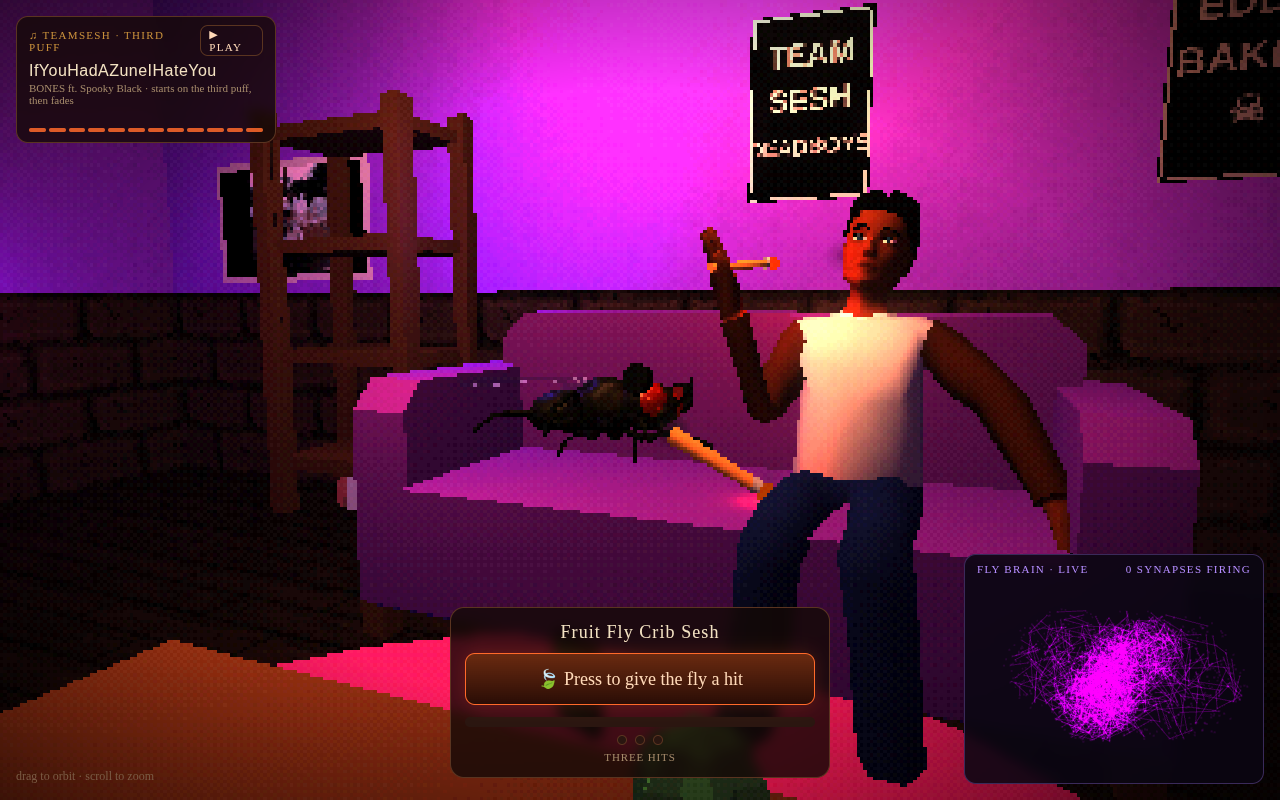
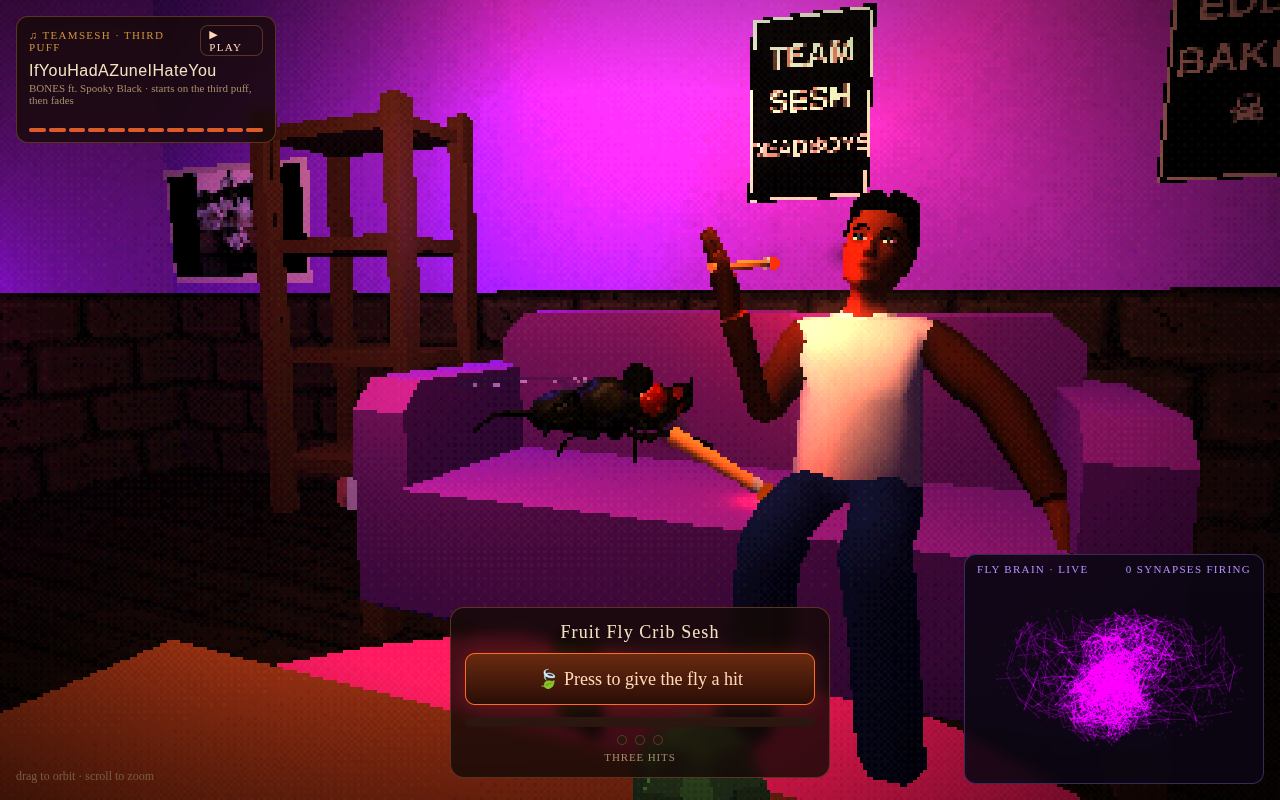
Album still clear of the bookshelf

Changed region(s): [[0.7812, 0.75, 0.9688, 0.9375], [0.125, 0.1875, 0.3125, 0.375], [0.6562, 0.2812, 0.6875, 0.375]]

diff --git a/index.html b/index.html
@@ -305,7 +305,7 @@ function hangPosters(){
   // the album still on the back wall, facing the camera
   new THREE.TextureLoader().load('assets/poster_yt.png', (t) => {
     const yp = new THREE.Mesh(new THREE.PlaneGeometry(2.6, 1.46), psxify(new THREE.MeshLambertMaterial({ map: pixelTex(t) })));
-    yp.position.set(-2.15*ROOM_S, 1.22*ROOM_S, -2.5*ROOM_S + .1); scene.add(yp);   // back wall, left of the bookshelf
+    yp.position.set(-2.5*ROOM_S, 1.22*ROOM_S, -2.5*ROOM_S + .1); scene.add(yp);   // back wall, left of the bookshelf
     const frame = new THREE.Mesh(new THREE.PlaneGeometry(2.8, 1.66), psxify(new THREE.MeshLambertMaterial({ color: 0xe8e8e8 })));
     frame.position.copy(yp.position); frame.position.z -= .02; scene.add(frame);
   });
